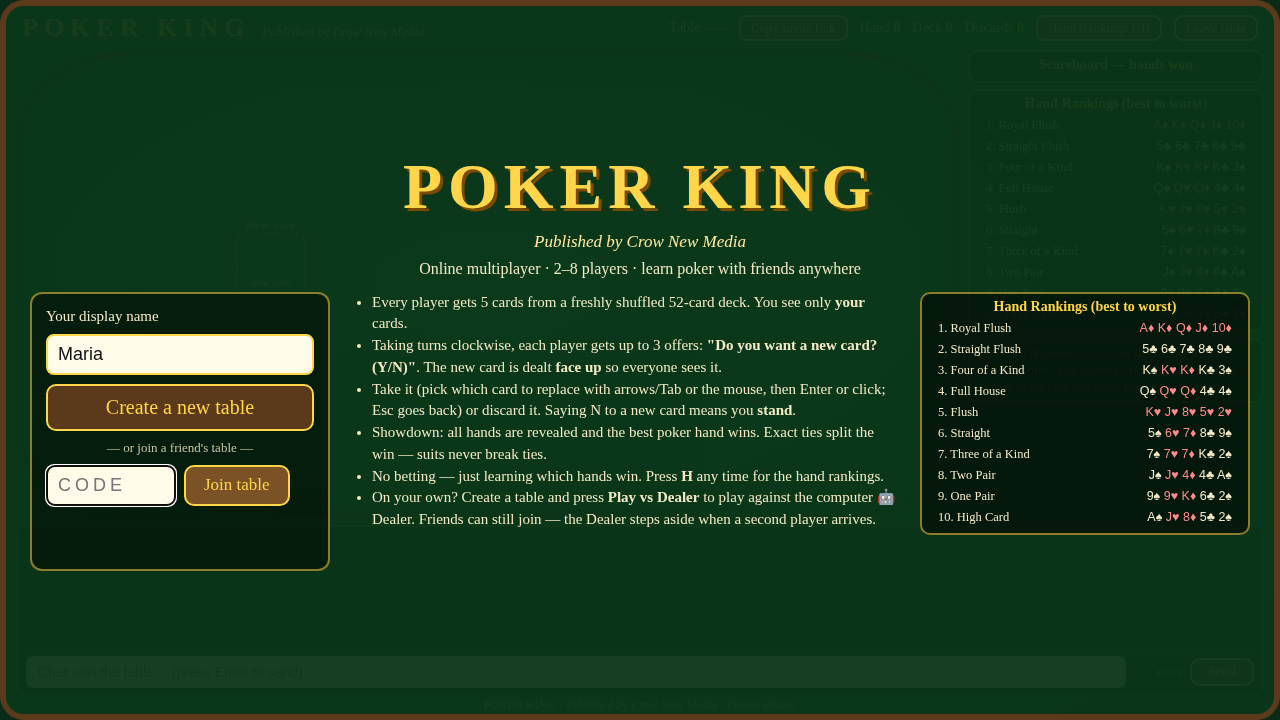
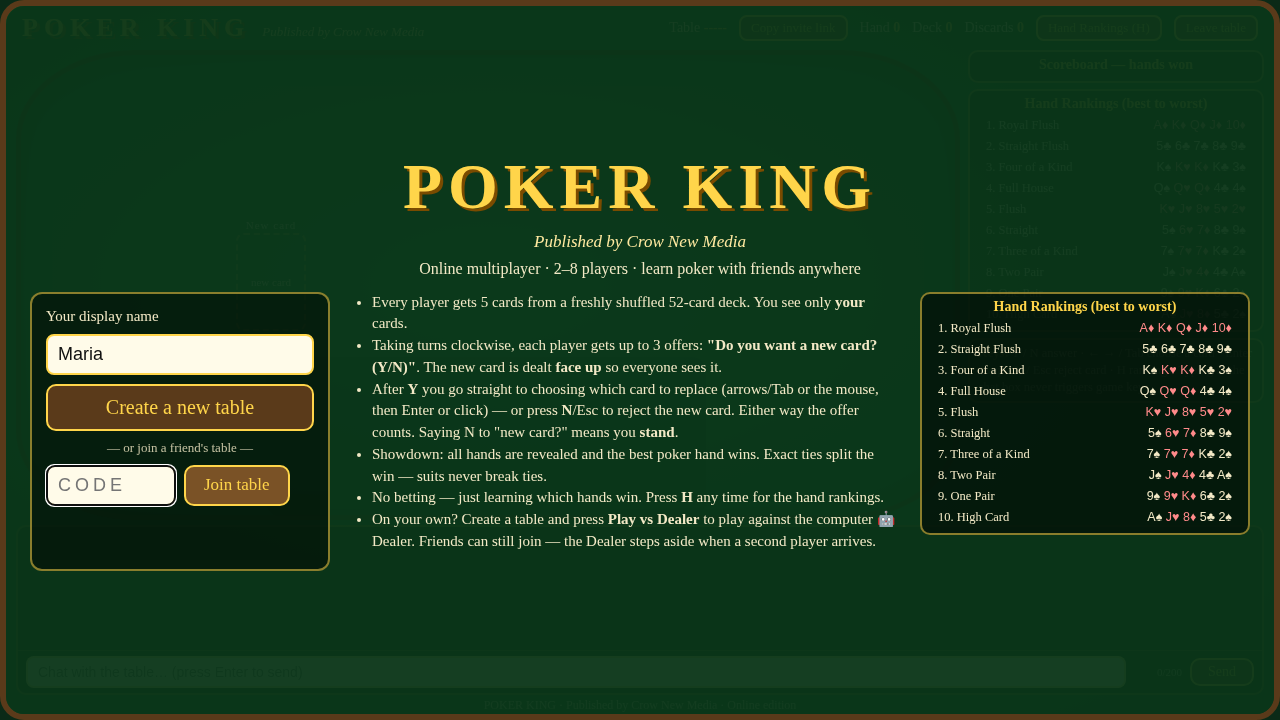
Draw flow: Y deals the new card and goes straight to choosing a card to replace; N/Esc/Reject button rejects. Remove take/decline step from client and protocol; selection timeout rejects card

Changed region(s): [[0.2812, 0.5194, 0.7188, 0.7639]]

diff --git a/test/unit.js b/test/unit.js
@@ -149,11 +149,10 @@ for (let game = 0; game < 300; game++) {
       if (roll < 0.05) { const q = room.players().find(x => !x.connected); if (q) room.reconnect(q, mkWs(), q.tab); continue; }
       if (roll < 0.06) { room.timeout(); continue; }
       if (roll < 0.07 && room.count() < 8) { room.join('Late' + game, mkWs(), 'late'); continue; }
-      if (roll < 0.08) { const q = pick(room.players()); room.act(q, pick(['new', 'stand', 'discard', 'sel', 'cancel', 'swap', 'xx']), pick([0, 4, 5, -1, 'a', undefined])); continue; } // random (often out-of-turn) junk
+      if (roll < 0.08) { const q = pick(room.players()); room.act(q, pick(['new', 'stand', 'reject', 'discard', 'sel', 'cancel', 'take', 'swap', 'xx']), pick([0, 4, 5, -1, 'a', undefined])); continue; } // random (often out-of-turn) junk
       const p = tp;
       if (room.sub === 'ask') room.act(p, Math.random() < 0.75 ? 'new' : 'stand');
-      else if (room.sub === 'take') room.act(p, pick(['sel', 'discard', 'sel']));
-      else if (room.sub === 'select') { const r2 = Math.random(); if (r2 < 0.15) room.act(p, 'cancel'); else room.act(p, 'swap', Math.floor(Math.random() * 5)); }
+      else if (room.sub === 'select') { const r2 = Math.random(); if (r2 < 0.3) room.act(p, 'reject'); else room.act(p, 'swap', Math.floor(Math.random() * 5)); }
       ok(p.offers <= 3, 'max 3 offers');
       checkViews(room);
     }
@@ -201,9 +200,8 @@ console.log('simulated hands:', handsSim, 'view card checks:', leaksChecked);
     while (room.phase === 'draw') {
       const p = room.turnPlayer(), before = room.deck.length;
       if (room.sub === 'ask') room.act(p, 'new');
-      else if (room.sub === 'take') room.act(p, 'sel');
       else room.act(p, 'swap', hand % 5);
-      if (before === 0 && room.sub === 'take') reshuf++;
+      if (before === 0 && room.sub === 'select') reshuf++;
       ok(room.check(), 'conservation during reshuffles');
     }
     ok(room.phase === 'show', 'showdown after reshuffles');
@@ -267,7 +265,7 @@ console.log('simulated hands:', handsSim, 'view card checks:', leaksChecked);
       dealerChecks++;
       ok(st.seats[D.seat].cards === undefined && st.res === null, 'Dealer cards hidden during the draw');
       if (room.sub === 'ask') room.act(p, Math.random() < 0.8 ? 'new' : 'stand');
-      else if (room.sub === 'take') room.act(p, Math.random() < 0.6 ? 'sel' : 'discard');
+      else if (Math.random() < 0.3) room.act(p, 'reject');
       else room.act(p, 'swap', Math.floor(Math.random() * 5));
       ok(p.offers <= 3, 'max 3 offers in solo');
       ok(room.check(), 'conservation in solo');
@@ -328,6 +326,56 @@ console.log('simulated hands:', handsSim, 'view card checks:', leaksChecked);
   ok(room.dead && room.timer === null && room.nextTimer === null, 'room destroyed when the solo human leaves');
   ok(!h.inv.length && !h.errors.length, 'no invariant failures in solo mode ' + (h.inv[0] || h.errors[0] || ''));
   console.log('solo unit hands: ' + soloHands + ' (Dealer won ' + dealerWins + ', human won ' + humanWins + '), hidden-card checks: ' + dealerChecks);
+}
+
+// ---- 9. draw flow: "new card" goes straight to choosing; reject / swap / timeout; retired actions ignored
+{
+  const h = mkHarness(); const room = new Room('FLOW', cfg, h.hooks);
+  const wa = { inbox: [] }, wb = { inbox: [] };
+  room.join('Ann', wa, 'a'); room.join('Ben', wb, 'b');
+  let flows = 0;
+  for (let hand = 0; hand < 200; hand++) {
+    room.startHand(); while (room.phase === 'deal') room.dealStep();
+    while (room.phase === 'draw') {
+      const p = room.turnPlayer(), ofs0 = p.offers, hand0 = p.hand.map(str).join(), disc0 = room.discards.length;
+      ok(room.sub === 'ask' && !room.offer, 'turn starts with the "new card?" question');
+      for (const a of ['sel', 'cancel', 'discard', 'take', 'reject', 'swap']) room.act(p, a, 1); // all invalid while asking
+      ok(room.sub === 'ask' && p.offers === ofs0 && !room.offer && p.hand.map(str).join() === hand0, 'non-ask actions ignored while asking');
+      if (p.offers === 2 && hand % 4 === 0) { room.act(p, 'stand'); continue; }
+      room.act(p, 'new');
+      ok(room.sub === 'select' && room.offer && p.offers === ofs0 + 1, 'Y goes straight to choosing a card (sub=' + room.sub + ')');
+      const v = (p === room.seats[0] ? wa : wb).inbox.filter(m => m.t === 'st').pop();
+      ok(v.sub === 'select' && v.offer === str(room.offer), 'state shows selection with the face-up card');
+      const offer = room.offer;
+      for (const a of ['sel', 'cancel', 'discard', 'take', 'new', 'stand']) room.act(p, a, 0); // retired / out-of-state
+      room.act(p, 'swap', 5); room.act(p, 'swap', -1); room.act(p, 'swap', '1'); room.act(p, 'swap', 1.5);
+      ok(room.sub === 'select' && room.offer === offer && p.hand.map(str).join() === hand0 && p.offers === ofs0 + 1, 'retired actions and bad swaps ignored in selection');
+      const r = (hand * 7 + p.offers) % 3;
+      if (r === 0) {
+        room.act(p, 'reject'); flows++;
+        ok(p.hand.map(str).join() === hand0 && room.discards[room.discards.length - 1] === offer && room.last.a === 'reject', 'reject discards the new card, hand unchanged');
+      } else if (r === 1) {
+        const i = (hand + p.offers) % 5, old = p.hand[i];
+        room.act(p, 'swap', i); flows++;
+        ok(p.hand[i] === offer && p.pub.has(i) && room.discards.includes(old) && room.last.a === 'take', 'swap puts the new card in');
+        room.act(p, 'swap', (i + 1) % 5); // double submit
+        ok(p.hand[(i + 1) % 5] !== offer, 'double swap ignored');
+      } else {
+        const turnBefore = p; room.timeout(); flows++;
+        ok(room.last.a === 'treject' && room.discards[room.discards.length - 1] === offer && p.hand.map(str).join() === hand0 && p.done && room.turnPlayer() !== turnBefore, 'timeout while choosing rejects the card and ends the turn');
+      }
+      if (r !== 2 && p.offers >= 3) ok(room.turnPlayer() !== p, 'third offer ends the turn, rejected or not');
+      ok(room.check() && p.offers <= 3, 'conservation / max 3 offers');
+    }
+    ok(room.phase === 'show', 'flow hand reaches showdown');
+  }
+  // offline player timing out while choosing
+  room.startHand(); while (room.phase === 'deal') room.dealStep();
+  const tp = room.turnPlayer(); room.act(tp, 'new'); room.disconnect(tp, tp.ws); room.timeout();
+  ok(room.last.a === 'oreject' && room.turnPlayer() !== tp, 'offline player: new card rejected, turn ends');
+  ok(!h.inv.length && !h.errors.length, 'no invariant failures in draw-flow tests');
+  console.log('draw-flow unit checks: ' + flows + ' offers (swap / reject / timeout)');
+  room.destroy();
 }
 
 console.log('unit tests: ' + pass + ' passed, ' + fail + ' failed');

diff --git a/test/malicious.js b/test/malicious.js
@@ -84,24 +84,41 @@ function get(path) { return new Promise(res => http.get({ host: 'localhost', por
   const cs = [a, b, d];
   let turn = a.S.turn, tp = bySeat(cs, turn), others = cs.filter(c => c !== tp);
   const before = JSON.stringify(a.S.seats.map(s => s && s.k)) + a.S.turn + a.S.sub;
-  for (const o of others) { for (const act of ['new', 'stand', 'discard', 'sel', 'cancel', 'swap']) o.send({ t: 'act', a: act, i: 1 }); }
+  for (const o of others) { for (const act of ['new', 'stand', 'reject', 'discard', 'sel', 'cancel', 'swap']) o.send({ t: 'act', a: act, i: 1 }); }
   m = await others[0].wait(m => m.t === 'err' && m.code === 'turn'); ok(true, 'out-of-turn rejected with message');
   await sleep(100);
   ok(a.S.turn === turn && a.S.sub === 'ask' && a.S.ofs === 0, 'out-of-turn actions changed nothing');
   tp.send({ t: 'act', a: 'new' }); tp.send({ t: 'act', a: 'new' }); tp.send({ t: 'act', a: 'new' });
-  await tp.waitState(s => s.sub === 'take'); await sleep(80);
-  ok(tp.S.ofs === 1 && tp.S.sub === 'take', 'duplicate "new" -> one offer only (ofs=' + tp.S.ofs + ')');
-  tp.send({ t: 'act', a: 'swap', i: 0 }); await sleep(60);
-  ok(tp.S.sub === 'take', 'swap without select is ignored');
-  tp.send({ t: 'act', a: 'sel' }); await tp.waitState(s => s.sub === 'select');
+  await tp.waitState(s => s.sub === 'select'); await sleep(80);
+  ok(tp.S.ofs === 1 && tp.S.sub === 'select' && tp.S.offer, 'Y goes straight to selection; duplicate "new" -> one offer only (ofs=' + tp.S.ofs + ')');
+  { // the retired take/decline/cancel sequence is ignored cleanly
+    const n0 = tp.msgs.length, h0 = JSON.stringify(tp.S.seats[tp.seat].cards), o0 = tp.S.offer;
+    for (const a of ['sel', 'cancel', 'discard', 'take', 'sel']) tp.send({ t: 'act', a, i: 0 });
+    tp.send({ t: 'act', a: 'swap', i: 9 }); tp.send({ t: 'act', a: 'swap', i: '2' }); tp.send({ t: 'act', a: 'REJECT' }); tp.send({ t: 'act', a: ['reject'] });
+    await sleep(80);
+    ok(tp.S.sub === 'select' && tp.S.offer === o0 && JSON.stringify(tp.S.seats[tp.seat].cards) === h0 && !tp.closed, 'old take/decline/cancel actions and bad swaps ignored');
+    ok(tp.msgs.slice(n0).every(m => m.t !== 'err' || m.code !== 'turn'), 'no spurious errors');
+  }
   const handBefore = tp.S.seats[tp.seat].cards.slice(), offer = tp.S.offer;
-  tp.send({ t: 'act', a: 'swap', i: 3 }); tp.send({ t: 'act', a: 'swap', i: 4 }); tp.send({ t: 'act', a: 'discard' });
+  tp.send({ t: 'act', a: 'swap', i: 3 }); tp.send({ t: 'act', a: 'swap', i: 4 }); tp.send({ t: 'act', a: 'reject' });
   await tp.waitState(s => s.sub === 'ask' && s.ofs === 1); await sleep(80);
   const handAfter = tp.S.seats[tp.seat].cards;
   ok(handAfter[3] === offer && handAfter[4] === handBefore[4] && tp.S.sub === 'ask', 'double swap -> only first applied');
   // others see the taken card face up at position 3, nothing else
   const ov = others[0].S.seats[tp.seat].cards;
   ok(ov && ov[3] === offer && ov.filter(Boolean).length === 1, 'taken card public, others hidden');
+  { // reject: the new card goes to the discards, hand unchanged; a double reject / late swap is ignored
+    const h1 = JSON.stringify(tp.S.seats[tp.seat].cards), d1 = tp.S.disc;
+    tp.send({ t: 'act', a: 'new' }); await tp.waitState(s => s.sub === 'select' && s.ofs === 2);
+    tp.send({ t: 'act', a: 'reject' }); tp.send({ t: 'act', a: 'reject' }); tp.send({ t: 'act', a: 'swap', i: 0 });
+    await tp.waitState(s => s.sub === 'ask' && s.ofs === 2); await sleep(80);
+    ok(JSON.stringify(tp.S.seats[tp.seat].cards) === h1 && tp.S.disc === d1 + 1 && tp.S.last.a === 'reject' && tp.S.ofs === 2, 'reject counted, card discarded, extras ignored');
+    // third offer: let the selection time out -> card rejected, turn ends
+    tp.send({ t: 'act', a: 'new' }); await tp.waitState(s => s.sub === 'select' && s.ofs === 3);
+    const seat = tp.seat;
+    const after = await tp.wait(m => m.t === 'st' && (m.turn !== seat || m.ph !== 'draw'), TURN + 1500);
+    ok(after.last && after.last.a === 'treject' && after.last.s === seat && JSON.stringify(after.seats[seat].cards) === h1, 'selection timeout rejects the card and ends the turn');
+  }
 
   // ---- 4. stale timers: act just before the deadline, then make sure the NEXT player's turn is not cut short
   let staleOk = 0, staleBad = 0;
@@ -202,12 +219,12 @@ function get(path) { return new Promise(res => http.get({ host: 'localhost', por
     const st = await s.waitState(m => m.ph === 'deal');
     const ds = st.seats.findIndex(q => q && q.b);
     ok(ds >= 0 && st.seats[ds].n === 'Dealer' && st.host === s.seat, 'solo start seats the Dealer, human stays host');
-    for (let i = 0; i < 15; i++) s.send({ t: 'act', a: ['sel', 'swap', 'discard', 'cancel', 'take'][i % 5], i: i % 7, seat: ds }); // out-of-state spam (deal / ask phase)
+    for (let i = 0; i < 15; i++) s.send({ t: 'act', a: ['sel', 'swap', 'discard', 'cancel', 'reject'][i % 5], i: i % 7, seat: ds }); // out-of-state spam (deal / ask phase)
     await s.waitState(m => m.ph === 'draw' && m.turn === s.seat, 3000);
     const before = s.msgs.length;
     s.send({ t: 'act', a: 'new' }); s.send({ t: 'act', a: 'new' }); s.send({ t: 'act', a: 'new' }); // duplicates: only the first counts
     await sleep(120);
-    ok(s.S.ofs === 1 && s.S.sub === 'take', 'duplicate "new" counted once in solo (' + JSON.stringify({ ph: s.S.ph, turn: s.S.turn, me: s.seat, ofs: s.S.ofs, sub: s.S.sub, last: s.S.last, hn: s.S.hn }) + ')');
+    ok(s.S.ofs === 1 && s.S.sub === 'select', 'duplicate "new" counted once in solo (' + JSON.stringify({ ph: s.S.ph, turn: s.S.turn, me: s.seat, ofs: s.S.ofs, sub: s.S.sub, last: s.S.last, hn: s.S.hn }) + ')');
     s.send({ t: 'chat', m: 'brb' }); await sleep(30);
     // vanish on own turn: grace 0.3 s then auto-stand -> showdown, hand ends cleanly without a client
     s.ws.close(); await sleep(900);

diff --git a/public/client.js b/public/client.js
@@ -184,12 +184,12 @@
     switch (L.a) {
       case 'new': return n + ' asked for a new card: ' + c;
       case 'stand': return n + ' stands (keeps their cards).';
-      case 'discard': return n + ' discarded the ' + c + '.';
+      case 'reject': return n + ' rejected the ' + c + ' (it goes to the discards).';
       case 'take': return n + ' took the ' + c + ', replacing card #' + (L.i + 1) + '.';
       case 'tstand': return n + ' ran out of time and stands.';
-      case 'tdiscard': return n + ' ran out of time; the ' + c + ' was discarded.';
+      case 'treject': return n + ' ran out of time; the ' + c + ' was rejected.';
       case 'ostand': return n + ' is offline, so they stand.';
-      case 'odiscard': return n + ' went offline; the ' + c + ' was discarded.';
+      case 'oreject': return n + ' went offline; the ' + c + ' was rejected.';
     }
     return '';
   }
@@ -231,10 +231,9 @@
       var lt = lastText(), lastHtml = lt && !(S.last.a === 'new' && S.sub !== 'ask') ? '<div class="desc">' + lt + '</div>' : '';
       if (myTurn) {
         if (S.sub === 'ask') setPrompt('<div class="q">Do you want a new card? (Y/N)</div>Offer ' + (S.ofs + 1) + ' of 3. Saying No means you stand with these cards.' + lastHtml, [['Yes (Y)', function () { act('new'); }, 'yesBtn'], ['No (N) — Stand', function () { act('stand'); }, 'noBtn']]);
-        else if (S.sub === 'take') setPrompt('<div class="q">Take this card? (Y/N)</div>Everyone can see it. If you take it, you choose which of your cards to replace.', [['Yes (Y) — choose a card', function () { act('sel'); }, 'yesBtn'], ['No (N) — Discard', function () { act('discard'); }, 'noBtn']]);
-        else setPrompt('<div class="q">Choose a card to replace</div>Arrows/Tab or mouse to choose · Enter/click to swap · Esc to cancel', [['Cancel (Esc)', function () { act('cancel'); }, 'cancelBtn']]);
+        else setPrompt('<div class="q">Choose a card to replace</div>Arrows/Tab or mouse, Enter/click to swap in the ' + cardName(S.offer) + ' — or press N to reject the new card.', [['Reject card (N)', function () { act('reject'); }, 'rejectBtn']]);
       } else {
-        var who = esc(tp.n), what = S.sub === 'ask' ? who + ' is deciding whether to ask for a new card…' : S.sub === 'take' ? who + ' is deciding whether to take the ' + cardName(S.offer) + '…' : who + ' is choosing which card to replace with the ' + cardName(S.offer) + '…';
+        var who = esc(tp.n), what = S.sub === 'ask' ? who + ' is deciding whether to ask for a new card…' : who + ' is choosing which card to replace with the ' + cardName(S.offer) + '…';
         setPrompt('<div class="q">' + what + '</div>' + (q && !q.ih ? 'You will be dealt in next hand. ' : '') + lastHtml, []);
       }
     } else if (S.ph === 'show' && S.res) {
@@ -330,12 +329,11 @@
     if (!S) return;
     if (isMyTurn()) {
       if (S.sub === 'ask') { if (k === 'y') act('new'); else if (k === 'n') act('stand'); }
-      else if (S.sub === 'take') { if (k === 'y') act('sel'); else if (k === 'n') act('discard'); }
       else if (S.sub === 'select') {
         if (k === 'arrowright' || (k === 'tab' && !e.shiftKey)) { e.preventDefault(); cursor = (cursor + 1) % 5; markCursor(); }
         else if (k === 'arrowleft' || (k === 'tab' && e.shiftKey)) { e.preventDefault(); cursor = (cursor + 4) % 5; markCursor(); }
         else if (k === 'enter') act('swap', cursor);
-        else if (k === 'escape') act('cancel');
+        else if (k === 'n' || k === 'escape') act('reject');
       }
     } else if (k === 'enter' && (S.ph === 'wait' || S.ph === 'show')) startGame();
   });
@@ -368,7 +366,7 @@
   function fit() { var k = Math.min(innerWidth / 1280, innerHeight / 720); $('app').style.transform = 'translate(' + (innerWidth - 1280 * k) / 2 + 'px,' + (innerHeight - 720 * k) / 2 + 'px) scale(' + k + ')'; }
   addEventListener('resize', fit); fit();
   $('ladder2').innerHTML = ladderHTML(-1, -1); $('ladder').innerHTML = ladderHTML(-1, -1);
-  $('tips').innerHTML = '<b>Keys:</b> Y / N answer · ← → or Tab choose a card · Enter confirm · Esc go back · H show/hide rankings. Typing in the chat box never triggers game keys.';
+  $('tips').innerHTML = '<b>Keys:</b> Y / N answer · ← → / Tab choose a card · Enter swap · N / Esc reject card · H rankings. Typing in the chat box never triggers game keys.';
 
   // ---------------- boot
   try { $('nameIn').value = localStorage.getItem('pkName') || ''; } catch (e) { }

diff --git a/test/browser.js b/test/browser.js
@@ -16,7 +16,7 @@ const SHOTS = path.join(__dirname, '..', 'screenshots');
 let pass = 0, failN = 0; const fails = [];
 function ok(c, m) { if (c) pass++; else { failN++; fails.push(m); console.log('FAIL:', m); } }
 const rnd = Math.random, pick = a => a[Math.floor(rnd() * a.length)];
-const stat = { hands: 0, walkovers: 0, bySize: {}, keyActs: 0, mouseActs: 0, timeouts: 0, swaps: 0, cancels: 0, reloadsTurn: 0, reloadsSelect: 0, leavesTurn: 0, leavesShow: 0, hostLeaves: 0, midJoins: 0, frames: 0, leakChecks: 0, domChecks: 0, chats: 0 };
+const stat = { hands: 0, walkovers: 0, bySize: {}, keyActs: 0, mouseActs: 0, timeouts: 0, swaps: 0, rejects: 0, reloadsTurn: 0, reloadsSelect: 0, leavesTurn: 0, leavesShow: 0, hostLeaves: 0, midJoins: 0, frames: 0, leakChecks: 0, domChecks: 0, chats: 0 };
 const offersSeen = new Map();  // code:hn -> Set of cards that were ever face up (offered) — public info
 const pendingLeak = [];        // [key, card, who]
 const showVerified = new Set();
@@ -175,11 +175,17 @@ async function playHand(ps, opts = {}) {
     if (T.sub === 'ask') {
       const yes = rnd() < 0.65;
       if (useKey) await tp.key(yes ? 'y' : 'n'); else await tp.click(yes ? '#yesBtn' : '#noBtn');
-    } else if (T.sub === 'take') {
-      const yes = rnd() < 0.55;
-      if (useKey) await tp.key(yes ? 'Y' : 'N'); else await tp.click(yes ? '#yesBtn' : '#noBtn');
     } else if (T.sub === 'select') {
-      if (rnd() < 0.12) { stat.cancels++; if (useKey) await tp.key('Escape'); else await tp.click('#cancelBtn'); }
+      if (!tp.selChecked || tp.selChecked !== hn + ':' + T.ofs) {
+        tp.selChecked = hn + ':' + T.ofs;
+        const ui = await tp.page.evaluate(() => ({ cur: window.__pk.cursor, q: (document.getElementById('prompt') || {}).textContent || '', btns: Array.from(document.querySelectorAll('#prompt button, #btns button')).map(b => b.textContent), curEl: document.querySelectorAll('#myhand .card.cur').length }));
+        if (tp.S.sub === 'select' && tp.S.ofs === T.ofs && tp.S.hn === hn) {
+          ok(/Choose a card to replace/.test(ui.q) && /press N to reject the new card/.test(ui.q), 'selection prompt: ' + ui.q);
+          ok(ui.btns.includes('Reject card (N)') && !ui.btns.some(b => /Take|Cancel/.test(b)), 'only the Reject button: ' + ui.btns);
+          ok(ui.cur === 0 && ui.curEl === 1, 'cursor starts on the first card (' + ui.cur + ')');
+        }
+      }
+      if (rnd() < 0.25) { stat.rejects++; if (useKey) await tp.key(pick(['n', 'N', 'Escape'])); else await tp.click('#rejectBtn'); }
       else {
         const i = Math.floor(rnd() * 5), offer = T.offer;
         if (useKey) {

diff --git a/lib/room.js b/lib/room.js
@@ -265,24 +265,20 @@ class Room {
     if (!tp || tp !== p) return this.send(p, { t: 'err', code: 'turn', m: 'Please wait for your turn.' });
     const sub = this.sub;
     if (a === 'new' && sub === 'ask' && p.offers < MAX_OFFERS) {
-      this.offer = this.draw(); p.offers++; this.sub = 'take'; this.startDecision(p);
+      this.offer = this.draw(); p.offers++; this.sub = 'select'; this.startDecision(p); // straight to choosing a card to replace
       this.last = { s: p.seat, a: 'new', c: str(this.offer) };
     } else if (a === 'stand' && sub === 'ask') {
       this.last = { s: p.seat, a: 'stand' };
       return this.endTurn(p);
-    } else if (a === 'discard' && (sub === 'take' || sub === 'select')) {
-      this.last = { s: p.seat, a: 'discard', c: str(this.offer) };
+    } else if (a === 'reject' && sub === 'select') {
+      this.last = { s: p.seat, a: 'reject', c: str(this.offer) };
       this.discards.push(this.offer); this.offer = null;
       return this.afterOffer(p);
-    } else if (a === 'sel' && sub === 'take') {
-      this.sub = 'select';            // same deadline: toggling select/cancel cannot extend the timer
-    } else if (a === 'cancel' && sub === 'select') {
-      this.sub = 'take';
     } else if (a === 'swap' && sub === 'select' && Number.isInteger(i) && i >= 0 && i < p.hand.length) {
       this.last = { s: p.seat, a: 'take', c: str(this.offer), i };
       this.discards.push(p.hand[i]); p.hand[i] = this.offer; p.pub.add(i); this.offer = null;
       return this.afterOffer(p);
-    } else return; // invalid / duplicate / out-of-state action: ignore silently
+    } else return; // invalid / duplicate / out-of-state / retired ('sel', 'cancel', 'discard') action: ignore silently
     this.broadcast();
   }
   afterOffer(p) {
@@ -298,8 +294,8 @@ class Room {
   timeout() {
     const p = this.turnPlayer(); if (!p) return;
     if (this.sub === 'ask') this.last = { s: p.seat, a: p.connected ? 'tstand' : 'ostand' };
-    else this.last = { s: p.seat, a: p.connected ? 'tdiscard' : 'odiscard', c: this.offer ? str(this.offer) : null };
-    this.endTurn(p); // a timed-out "take this card?" discards the card and ends the turn
+    else this.last = { s: p.seat, a: p.connected ? 'treject' : 'oreject', c: this.offer ? str(this.offer) : null };
+    this.endTurn(p); // timing out while choosing a card rejects the new card and ends the turn
   }
   showdown() {
     this.clearTimer(); this.phase = 'show'; this.sub = null; this.ti = -1;

diff --git a/test/bots.js b/test/bots.js
@@ -11,10 +11,11 @@ const { parse } = require('../lib/cards');
 
 const PORT = 3400 + Math.floor(Math.random() * 500);
 const URL = 'ws://localhost:' + PORT + '/ws';
+const pick = a => a[Math.floor(Math.random() * a.length)];
 const TARGET = +(process.argv[2] || 45); // showdowns per table
 const SIZES = [2, 3, 4, 5, 6, 7, 8, 2, 3, 4, 5, 6, 7, 8];
 const TURN_MS = 500;
-const fails = []; const counts = { showdowns: 0, walkovers: 0, msgs: 0, leakChecks: 0, timeouts: 0, dcs: 0, dcTurn: 0, dcSelect: 0, resumes: 0, resumeCardsKept: 0, leavesTurn: 0, leavesShow: 0, hostLeaves: 0, allButOne: 0, rejected9: 0, takes: 0, stands: 0, discards: 0, cancels: 0, expired: 0, reshuffleMsgs: 0, bySize: {}, byTable: {} };
+const fails = []; const counts = { showdowns: 0, walkovers: 0, msgs: 0, leakChecks: 0, timeouts: 0, dcs: 0, dcTurn: 0, dcSelect: 0, resumes: 0, resumeCardsKept: 0, leavesTurn: 0, leavesShow: 0, hostLeaves: 0, allButOne: 0, rejected9: 0, takes: 0, stands: 0, rejects: 0, retired: 0, expired: 0, reshuffleMsgs: 0, bySize: {}, byTable: {} };
 function fail(m) { if (fails.length < 60) console.log('FAIL:', m); fails.push(m); }
 const rnd = () => Math.random();
 let botId = 0;
@@ -125,8 +126,10 @@ class Bot {
       if (rnd() < 0.03) this.send({ t: 'act', a: 'new' });           // duplicate / stale
       this.lastActAt = Date.now();
       if (s === 'ask') { if (rnd() < 0.7) this.send({ t: 'act', a: 'new' }); else { counts.stands++; this.send({ t: 'act', a: 'stand' }); } }
-      else if (s === 'take') { if (rnd() < 0.6) this.send({ t: 'act', a: 'sel' }); else { counts.discards++; this.send({ t: 'act', a: 'discard' }); } }
-      else if (s === 'select') { if (rnd() < 0.15) { counts.cancels++; this.send({ t: 'act', a: 'cancel' }); } else { counts.takes++; this.send({ t: 'act', a: 'swap', i: Math.floor(rnd() * 5) }); } }
+      else if (s === 'select') {
+        if (rnd() < 0.05) { counts.retired++; this.send({ t: 'act', a: pick(['sel', 'cancel', 'discard']) }); } // old protocol: must be ignored
+        if (rnd() < 0.35) { counts.rejects++; this.send({ t: 'act', a: 'reject' }); } else { counts.takes++; this.send({ t: 'act', a: 'swap', i: Math.floor(rnd() * 5) }); }
+      }
       if (rnd() < 0.05) this.send({ t: 'act', a: 'swap', i: 2 });    // double-submit race
     }, rnd() * 25);
   }

diff --git a/public/index.html b/public/index.html
@@ -24,7 +24,7 @@
  </div>
  <ul class="rules"><li>Every player gets 5 cards from a freshly shuffled 52-card deck. You see only <b>your</b> cards.</li>
  <li>Taking turns clockwise, each player gets up to 3 offers: <b>"Do you want a new card? (Y/N)"</b>. The new card is dealt <b>face up</b> so everyone sees it.</li>
- <li>Take it (pick which card to replace with arrows/Tab or the mouse, then Enter or click; Esc goes back) or discard it. Saying N to a new card means you <b>stand</b>.</li>
+ <li>After <b>Y</b> you go straight to choosing which card to replace (arrows/Tab or the mouse, then Enter or click) — or press <b>N</b>/Esc to reject the new card. Either way the offer counts. Saying N to "new card?" means you <b>stand</b>.</li>
  <li>Showdown: all hands are revealed and the best poker hand wins. Exact ties split the win — suits never break ties.</li>
  <li>No betting — just learning which hands win. Press <b>H</b> any time for the hand rankings.</li>
  <li>On your own? Create a table and press <b>Play vs Dealer</b> to play against the computer 🤖 Dealer. Friends can still join — the Dealer steps aside when a second player arrives.</li></ul>

diff --git a/test/solo.js b/test/solo.js
@@ -96,8 +96,7 @@ class H {
     const delay = 2 + rnd() * 20;
     setTimeout(() => {
       if (m.sub === 'ask') this.send({ t: 'act', a: rnd() < 0.7 ? 'new' : 'stand' });
-      else if (m.sub === 'take') this.send({ t: 'act', a: rnd() < 0.6 ? 'sel' : 'discard' });
-      else if (rnd() < 0.1) this.send({ t: 'act', a: 'cancel' });
+      else if (rnd() < 0.35) { c.rejects = (c.rejects || 0) + 1; this.send({ t: 'act', a: 'reject' }); }
       else { c.takes++; this.send({ t: 'act', a: 'swap', i: Math.floor(rnd() * 5) }); }
     }, delay);
   }

diff --git a/README.md b/README.md
@@ -147,12 +147,14 @@ On Render, set these under **Environment** in the dashboard. Locally, run for ex
     hand.
   * On your turn you get up to **3 offers**: *"Do you want a new card? (Y/N)"*.
     * **N** means you stand.
-    * **Y** turns a new card face up for everyone to see, and then you're asked *"Take this card?
-      (Y/N)"*.
-      * **N** discards it.
-      * **Y** lets you choose which of your cards to replace. Use ← → or Tab or the mouse to
-        choose, Enter or click to swap, and Esc to go back.
-  * Each decision has a 45-second timer.
+    * **Y** turns a new card face up for everyone to see, and you go **straight to choosing**
+      which of your cards to replace (the cursor starts on your first card):
+      * use ← → or Tab or the mouse to choose, and Enter or click to swap the new card in;
+      * or press **N** or **Esc** (or the **Reject card (N)** button) to reject the new card. It
+        goes to the discards.
+    * Either way, the offer counts toward your 3.
+  * Each decision has a 45-second timer. Running out of time while choosing rejects the new card
+    and ends your turn.
   * When the deck runs out, the discards are shuffled into a new deck, and the game announces it.
 * **Showdown**
   * All hands are revealed and named, with the cards that make the hand highlighted.
